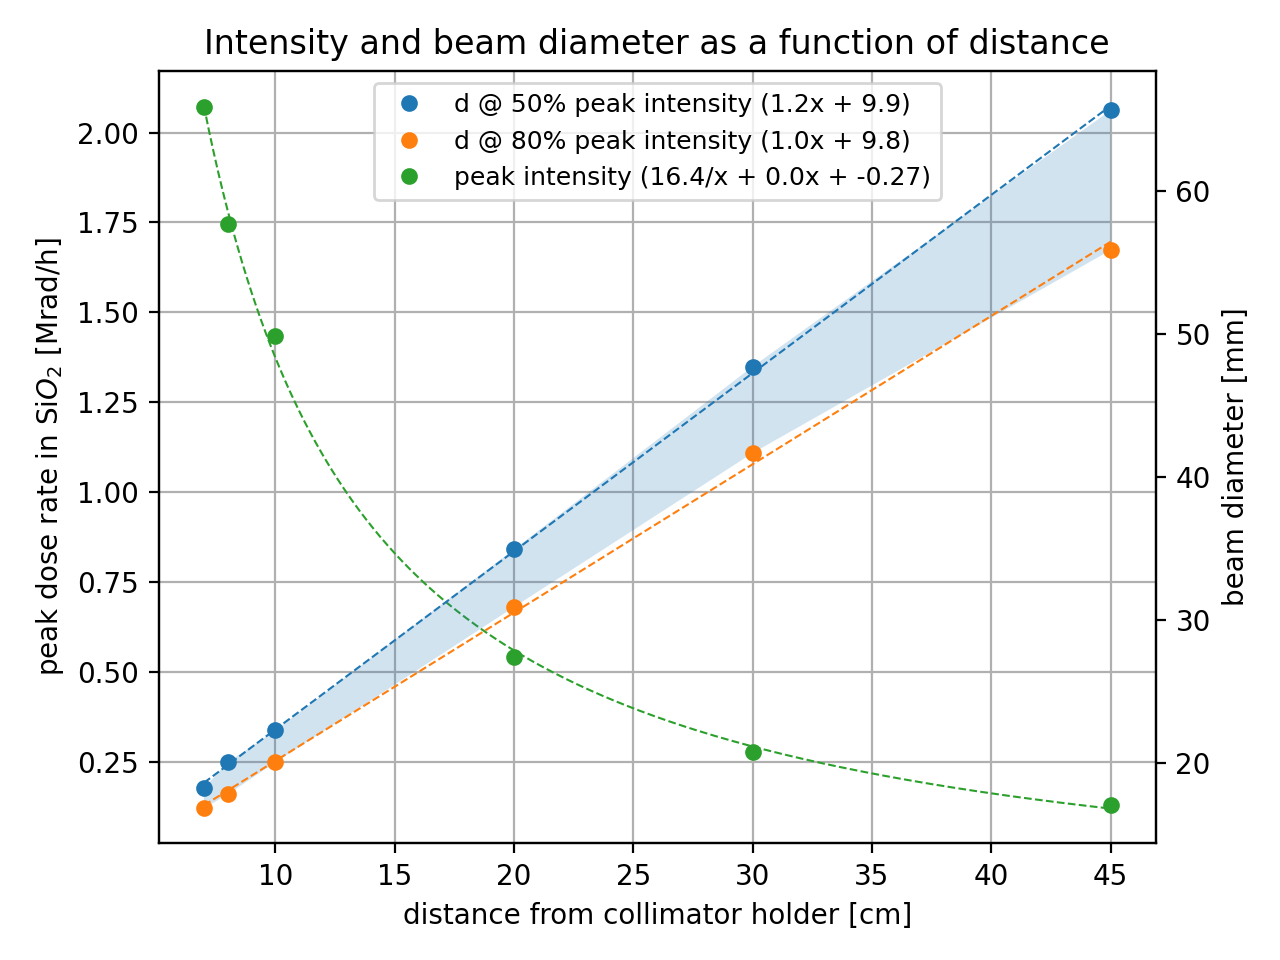
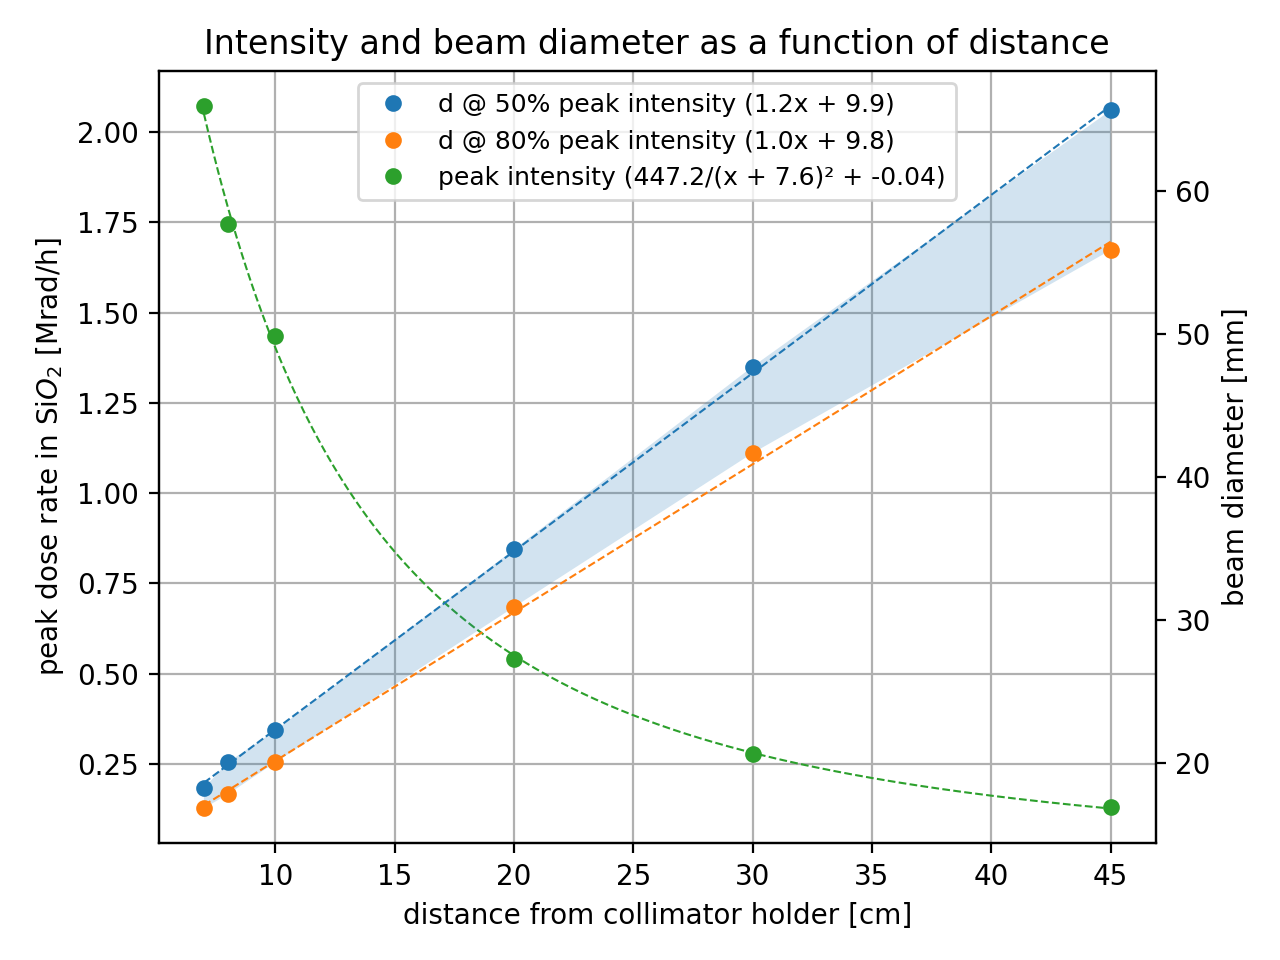
Fixes

diff --git a/xray.py b/xray.py
@@ -528,7 +528,7 @@ class plotting(object):
 
     def model_func(self, x, a, b, c):
         # return a / (b * np.power(x, 2)) + c
-        return a * (1 / x) + b * x + c
+        return a / np.power((x + b), 2) + c
 
     def plot_calibration_curves(self, data=None):
         ''' Plots the extracted peak intensity and beam diameter values
@@ -569,17 +569,16 @@ class plotting(object):
             ax2.plot(distance, fits[it](distance), linestyle='--', linewidth=0.75)
             lns.update({it: ax2.plot(distance, temp, linestyle='None', marker='o', markersize=5, color=plt.gca().lines[-1].get_color(), label='d @ {:.0f}% peak intensity ({:.1f}x + {:.1f})'.format((it * 100), coef[0], coef[1]))})
 
-
-#        # Plot intensity vs. distance
+        # Plot intensity vs. distance
         popt, pcov = curve_fit(self.model_func, distance, peak, p0=[1, -2, 1])
         a, b, c = popt
-        print("Optimal parameters are a=%g, b=%g, and c=%g" % (a, b, c))
+        logger.info("Optimal parameters are a=%g, b=%g, and c=%g" % (a, b, c))
         dist_range = np.arange(min(distance), max(distance), 0.1)
         intensity_color = ax2._get_lines.get_next_color()
         ax.plot(dist_range, self.model_func(dist_range, a, b, c), linestyle='--', linewidth=0.75, color=intensity_color)
         fits.update({'peak': [a, b, c]})
 
-        lns.update({'peak': ax.plot(distance, peak, linestyle='None', marker='o', markersize=5, color=intensity_color, label='peak intensity ({:.1f}/x + {:.1f}x + {:.2f})'.format(popt[0], popt[1], popt[2]))})
+        lns.update({'peak': ax.plot(distance, peak, linestyle='None', marker='o', markersize=5, color=intensity_color, label='peak intensity ({:.1f}/(x + {:.1f})² + {:.2f})'.format(popt[0], popt[1], popt[2]))})
         plt.fill_between(distance, diameter[0], diameter[1], alpha=0.2)
 
         # Extract the labels and show them in a combined legend
